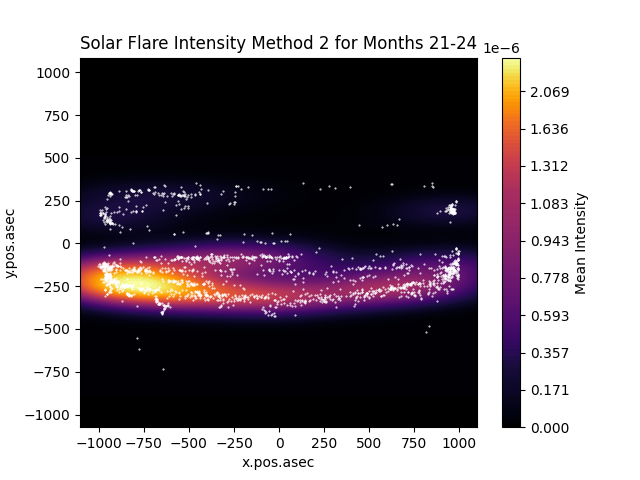
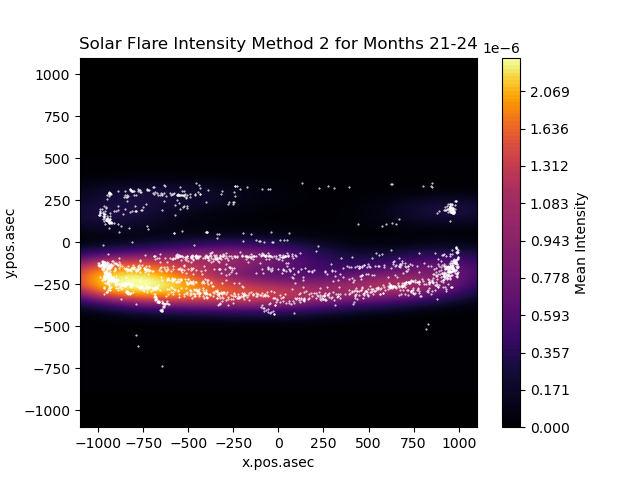
Task 3 work
need to make plots for task3 analysis

diff --git a/main.py b/main.py
@@ -9,12 +9,17 @@ if __name__ == '__main__':
     # changing the month values for the year 2005 (1 = 13, 2 = 14, etc.) to make subdivision simpler later on
     # in rows where the year value is 2005, add 12 to the month value and replace the old month value
     df_04['month'] = np.where((df_04['year'] == 2005), df_04['month'] + 12, df_04['month'])
-
     # list that will hold sets of 4 with a two month overlap
     dfs_04 = []
 
     # grouping the data frame by month nummber
     df_m = df_04.groupby(['month'])
+
+    # same thing but with the 15-16 data
+    df_15 = pd.read_csv('dataset/Solar_flare_RHESSI_2015_16.csv')
+    df_15['month'] = np.where((df_15['year'] == 2016), df_15['month'] + 12, df_15['month'])
+    dfs_15 = []
+    df_n = df_15.groupby(['month'])
 
     # looping starting at i = 4, in steps of 2, while i < 25
     # creates an overlap of two months between subsets
@@ -23,20 +28,22 @@ if __name__ == '__main__':
         # concatenate them into a single data frame, then append this to the dfs list
         dfs_04.append(pd.concat([df_m.get_group(i - 3), df_m.get_group(i - 2), df_m.get_group(i - 1), df_m.get_group(i)]))
 
-    # same thing but with the 15-16 data
-    df_15 = pd.read_csv('dataset/Solar_flare_RHESSI_2004_05.csv')
-    df_15['month'] = np.where((df_15['year'] == 2005), df_15['month'] + 12, df_15['month'])
-    dfs_15 = []
-    df_m = df_15.groupby(['month'])
+    for i in range(4, 14, 2):
+        dfs_15.append(pd.concat([df_n.get_group(i - 3), df_n.get_group(i - 2), df_n.get_group(i - 1), df_n.get_group(i)]))
 
-    for i in range(4, 25, 2):
-        dfs_15.append(pd.concat([df_m.get_group(i - 3), df_m.get_group(i - 2), df_m.get_group(i - 1), df_m.get_group(i)]))
+    for i in range(20, 25, 2):
+        dfs_15.append(pd.concat([df_n.get_group(i - 3), df_n.get_group(i - 2), df_n.get_group(i - 1), df_n.get_group(i)]))
 
     # some examples
 
+    s1 = Helios.map_and_normalize(dfs_04[0])
+    s2 = Helios.map_and_normalize(dfs_15[0])
+
     # frequency based intensity plot for the entire 04-05 dataset (no scatter plot overlaid)
-    Helios.intensity_estimation_frequency(df_04, plot=True, scatter=False, thresh=False, levels=100)
+    Helios.intensity_estimation_frequency(dfs_04[0], plot=True, levels=100)
+    Helios.intensity_estimation_energy(s1, plot=True, levels=100)
     # energy based intensity plot for just the last 4 months of the 15-16 dataset
-    Helios.intensity_estimation_frequency(dfs_15[-1], plot=True, levels=100)
+    Helios.intensity_estimation_frequency(dfs_15[0], plot=True, levels=100)
+    Helios.intensity_estimation_energy(s2, plot=True, levels=100)
 
     

diff --git a/helios.py b/helios.py
@@ -8,10 +8,10 @@ from scipy import stats
 
 class Helios:
 
-    def __init__() -> None:
+    def __init__(self):
         pass
     
-    def __map_and_normalize(data):
+    def map_and_normalize(data):
         # maps energy band to average energy
         energy_band_mapping = {    
             '6-12': 9,
@@ -109,22 +109,22 @@ class Helios:
     # from task1.ipynb    
     # gets the energy based intensity values if plot=False,
     # or a plot if plot=True    
-    def intensity_estimation_energy(self, data, plot=False, scatter=True, levels=10):
+    def intensity_estimation_energy(self, plot=False, scatter=True, levels=10):
         # adding the new intensity values for the data
-        data = self.__map_and_normalize(data)
+        #data = self.__map_and_normalize(data)
 
         # energy-based intensity data
-        intensity = data['intensity.method.2'].values.flatten()
+        intensity = self['intensity.method.2'].values.flatten()
         # x and y values
-        x = data['x.pos.asec'].values.flatten()
-        y = data['y.pos.asec'].values.flatten()
+        x = self['x.pos.asec'].values.flatten()
+        y = self['y.pos.asec'].values.flatten()
 
         if plot:
             # new matplotlib figure
             fig, ax = plt.subplots()
             
             # seaborn kde plot, uses scipy gaussian_kde underneath
-            ax = sns.kdeplot(data=data, x='x.pos.asec', y='y.pos.asec', 
+            ax = sns.kdeplot(data=self, x='x.pos.asec', y='y.pos.asec',
                             weights='intensity.method.2', fill=True, levels=levels, 
                             thresh=0, cmap='inferno', cbar=True, bw_method='scott')
 
@@ -144,8 +144,8 @@ class Helios:
                 # plotting the scatterplot on top of the kde plot
                 plt.scatter(x, y, s=0.2, facecolor='white')
 
-            ax.set_title(f"Solar Flare Intensity Method 2 for Months {data['month'].min()}-{data['month'].max()}")
-            date_range = f"{data['year'].iloc[0]}_{data['month'].min()}-{data['month'].max()}"
+            ax.set_title(f"Solar Flare Intensity Method 2 for Months {self['month'].min()}-{self['month'].max()}")
+            date_range = f"{self['year'].iloc[0]}_{self['month'].min()}-{self['month'].max()}"
             plt.savefig(f"./output/intensity_energy_{date_range}.png")
             plt.show()
 
